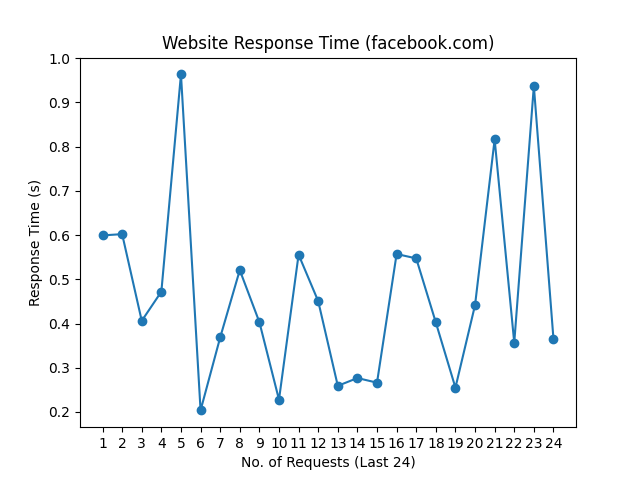
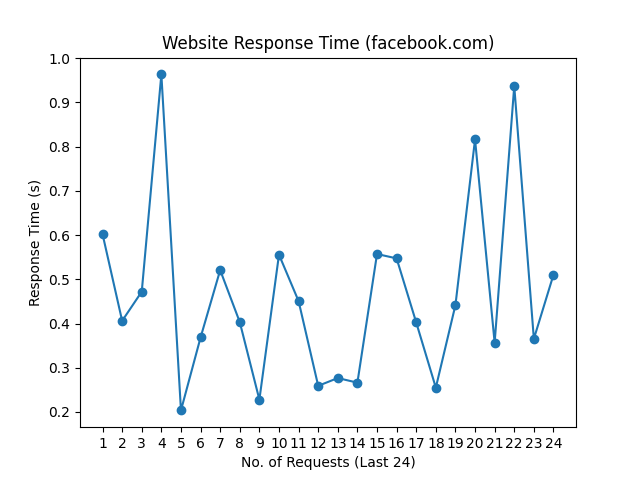
update README.md, history and graph

Changed region(s): [[0.1562, 0.125, 0.875, 0.875]]

diff --git a/README.md b/README.md
@@ -1,10 +1,10 @@
 # Web Monitoring
 
-Last Checked: 28/08/2024 08:17
+Last Checked: 29/08/2024 08:18
 
 | Website | Response Time (s) | Status | Avg Uptime (%) |
 |---------|-------------------|--------|----------------|
 | www.thiswebsiteisdown.net | 0 <br> <img src="graph/thiswebsiteisdown.net.png" alt="Graph" width="200" height="200">  | ❌ Down | 0.00 |
-| www.netflix.com | 1.339531 <br> <img src="graph/netflix.com.png" alt="Graph" width="200" height="200">  | ✅ Up | 100.00 |
-| www.google.com | 0.075830 <br> <img src="graph/google.com.png" alt="Graph" width="200" height="200">  | ✅ Up | 100.00 |
-| www.facebook.com | 0.365341 <br> <img src="graph/facebook.com.png" alt="Graph" width="200" height="200">  | ✅ Up | 100.00 |
+| www.netflix.com | 0.845348 <br> <img src="graph/netflix.com.png" alt="Graph" width="200" height="200">  | ✅ Up | 100.00 |
+| www.google.com | 0.155933 <br> <img src="graph/google.com.png" alt="Graph" width="200" height="200">  | ✅ Up | 100.00 |
+| www.facebook.com | 0.509998 <br> <img src="graph/facebook.com.png" alt="Graph" width="200" height="200">  | ✅ Up | 100.00 |
